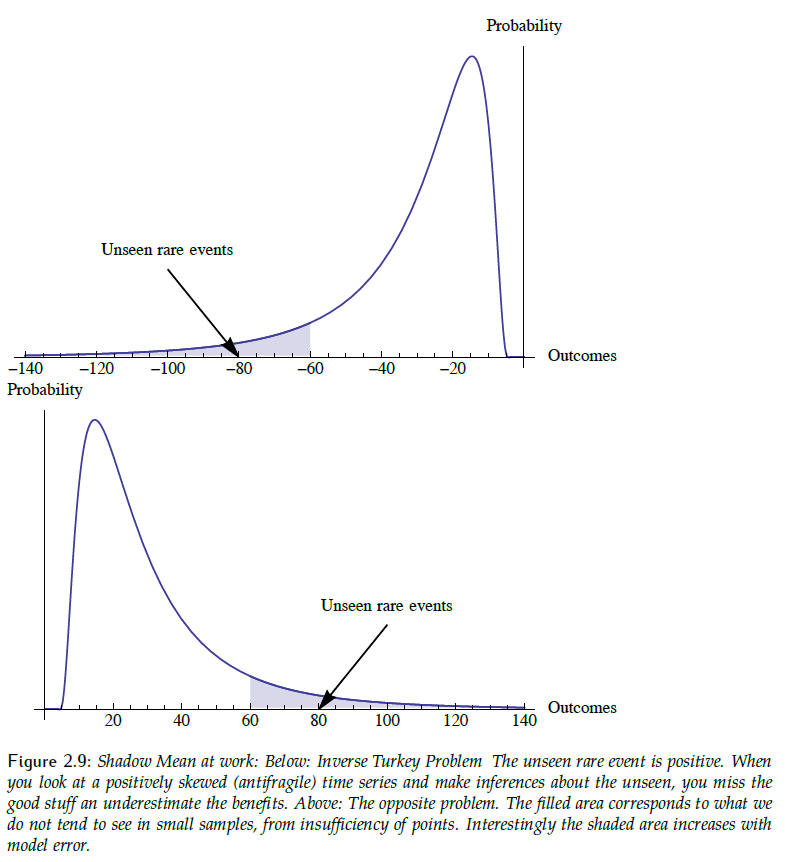
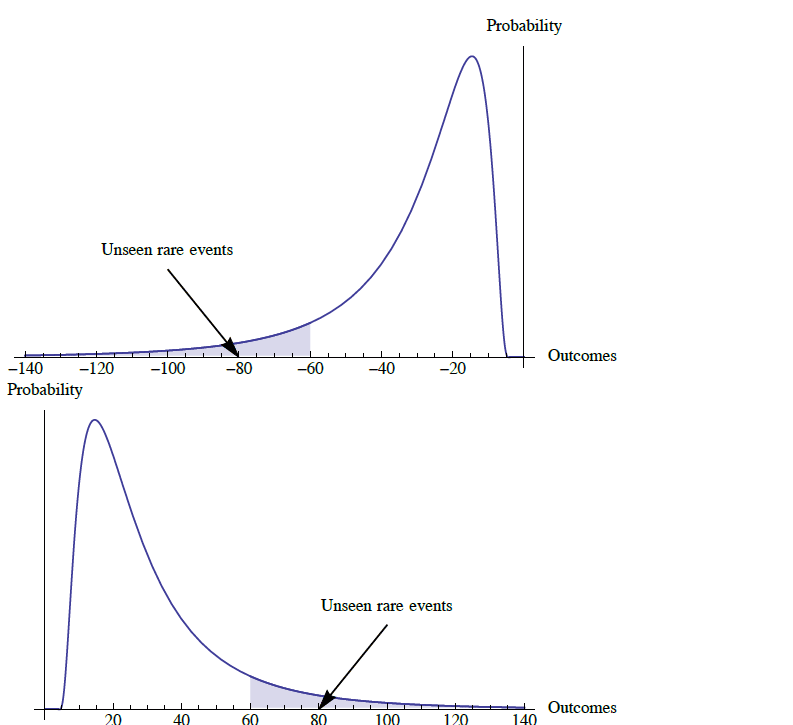
Crop Figure 3 to remove its baked-in duplicate caption
image3.png (the Taleb fat-tail chart) had its own caption text
rendered into the bottom of the image itself, which duplicated and
collided with the essay's own figcaption right below it. Cropped
the image to just the two charts.

diff --git a/essays/the-risk-we-wont-look-at.html b/essays/the-risk-we-wont-look-at.html
@@ -552,7 +552,7 @@ html { scroll-behavior: smooth; }
 <h2 id="why-unlikely-is-not-good-enough">Why “unlikely” is not good enough</h2>
 <p>Before the numbers, there is one more thing to understand about our intuitions, and it is less a bias than a mismatch. They are tuned to one kind of world, and the risks that I’m mentioning belong to another. Most of what we meet in daily life follows a bell curve, or normal distribution<a href="#fn19" class="footnote-ref" id="fnref19" role="doc-noteref"><sup>19</sup></a>. Human height is the standard example. Almost everyone clusters near the average, and no one is twenty times taller than anyone else. In a world like that, extremes are so unlikely that we can safely ignore them. But the “tail” of a distribution is its far edge, where the rare, extreme outcomes live, and a tail risk is an event from that edge. Unlikely in any given year, but devastating when it does arrive.</p>
 <p>The economist Vilfredo Pareto noticed more than a century ago that roughly 80% of the land in Italy was owned by about 20% of its people, and the same lopsided pattern has since turned up almost everywhere. The distribution of wealth, city sizes, earthquake energies, the death tolls of wars, and pandemics (Newman, 2005; Cirillo and Taleb, 2020). These are called Pareto or power-law distributions, and they have what are known as fat tails. Extreme events are still rarer than ordinary ones, but they are so large that a handful of them account for most of the total. The solar system is another good example of this kind of concentration. The Sun holds about 99.86% of all the mass in it. Jupiter accounts for most of the rest, and everything else including Earth, is a rounding error. Ask what the “average mass” of an object in the solar system is and the answer is nearly meaningless, because a single object sets the total. Fat-tailed risks are distributed like the solar system's mass, not like human height. Most of the harm sits in a few extreme events, so the average tells us nothing about the one that decides everything.</p>
-<figure><img src="../images/essays/x-risk/image3.png" width="793" height="862" alt="Figure 3. Fat-tailed distributions hide rare events. The shaded areas mark unseen rare events in the tails, which small samples tend to miss. Source: Taleb (2007)." loading="lazy" decoding="async" /><figcaption>Figure 3. Fat-tailed distributions hide rare events. The shaded areas mark unseen rare events in the tails, which small samples tend to miss. Source: Taleb (2007).</figcaption></figure>
+<figure><img src="../images/essays/x-risk/image3.png" width="793" height="725" alt="Figure 3. Fat-tailed distributions hide rare events. The shaded areas mark unseen rare events in the tails, which small samples tend to miss. Source: Taleb (2007)." loading="lazy" decoding="async" /><figcaption>Figure 3. Fat-tailed distributions hide rare events. The shaded areas mark unseen rare events in the tails, which small samples tend to miss. Source: Taleb (2007).</figcaption></figure>
 <p>Nassim Taleb calls the rare, extreme events that live in these fat tails black swans, after the old European belief that all swans were white, which a single sighting of a black one in Australia overturned. A black swan has three marks: it lies outside what our past experience would lead us to expect, it carries an extreme impact, and afterward we rationalize it, telling ourselves it was predictable all along (Taleb, 2007). Extinction is the ultimate black swan, and in one way it is worse than the rest. Every other black swan at least leaves survivors who can study it, even if they rationalize it badly. Extinction does not. It sits at the far end of the longest tail, with no aftermath in which anyone could say we should have seen it coming. If we are going to learn about it at all, we have to learn beforehand, because experience will never get the chance to teach us.</p>
 <p>So the first dismissal, that this is all too unlikely, deserves a direct answer. Here are the numbers:</p>
 <p>Toby Ord’s estimate, in The Precipice (Ord, 2020), is that humanity faces roughly a 1 in 6 chance of existential catastrophe this century, and that the risk is overwhelmingly anthropogenic. His per-risk breakdown is worth reading closely:</p>
